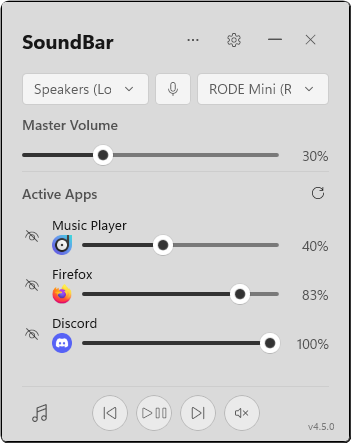
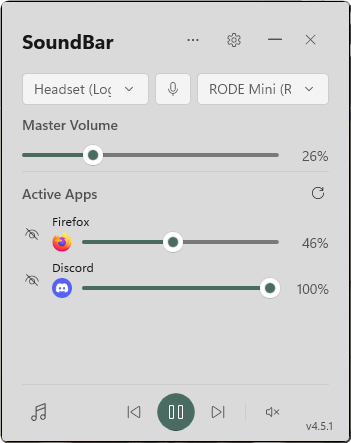
Refresh README screenshots for v4.5.1
- Every main-window shot shows the new media bar (play centred) and v4.5.1
- Main page settings show the Media controls option; General shows Lightweight mode and Show on taskbar
- About card shows v4.5.1
- Device list images resized, with their README widths adjusted to match

diff --git a/README.md b/README.md
@@ -111,11 +111,11 @@ Switch where your sound plays, or which microphone you use, straight from the to
 
 <table>
   <tr>
-    <td align="center"><img src="docs/images/output-devices.png" width="340" alt="Choosing speakers or a headset" /><br/><sub>Click the speaker box to choose where sound plays</sub></td>
+    <td align="center"><img src="docs/images/output-devices.png" width="315" alt="Choosing speakers or a headset" /><br/><sub>Click the speaker box to choose where sound plays</sub></td>
     <td align="center"><img src="docs/images/mic-mute.png" width="300" alt="The microphone mute button turned red" /><br/><sub>Click the microphone button to mute it. It turns red so you always know.</sub></td>
   </tr>
   <tr>
-    <td align="center" colspan="2"><img src="docs/images/input-devices.png" width="540" alt="Choosing a microphone" /><br/><sub>Click the microphone box to choose a microphone</sub></td>
+    <td align="center" colspan="2"><img src="docs/images/input-devices.png" width="520" alt="Choosing a microphone" /><br/><sub>Click the microphone box to choose a microphone</sub></td>
   </tr>
 </table>
 
